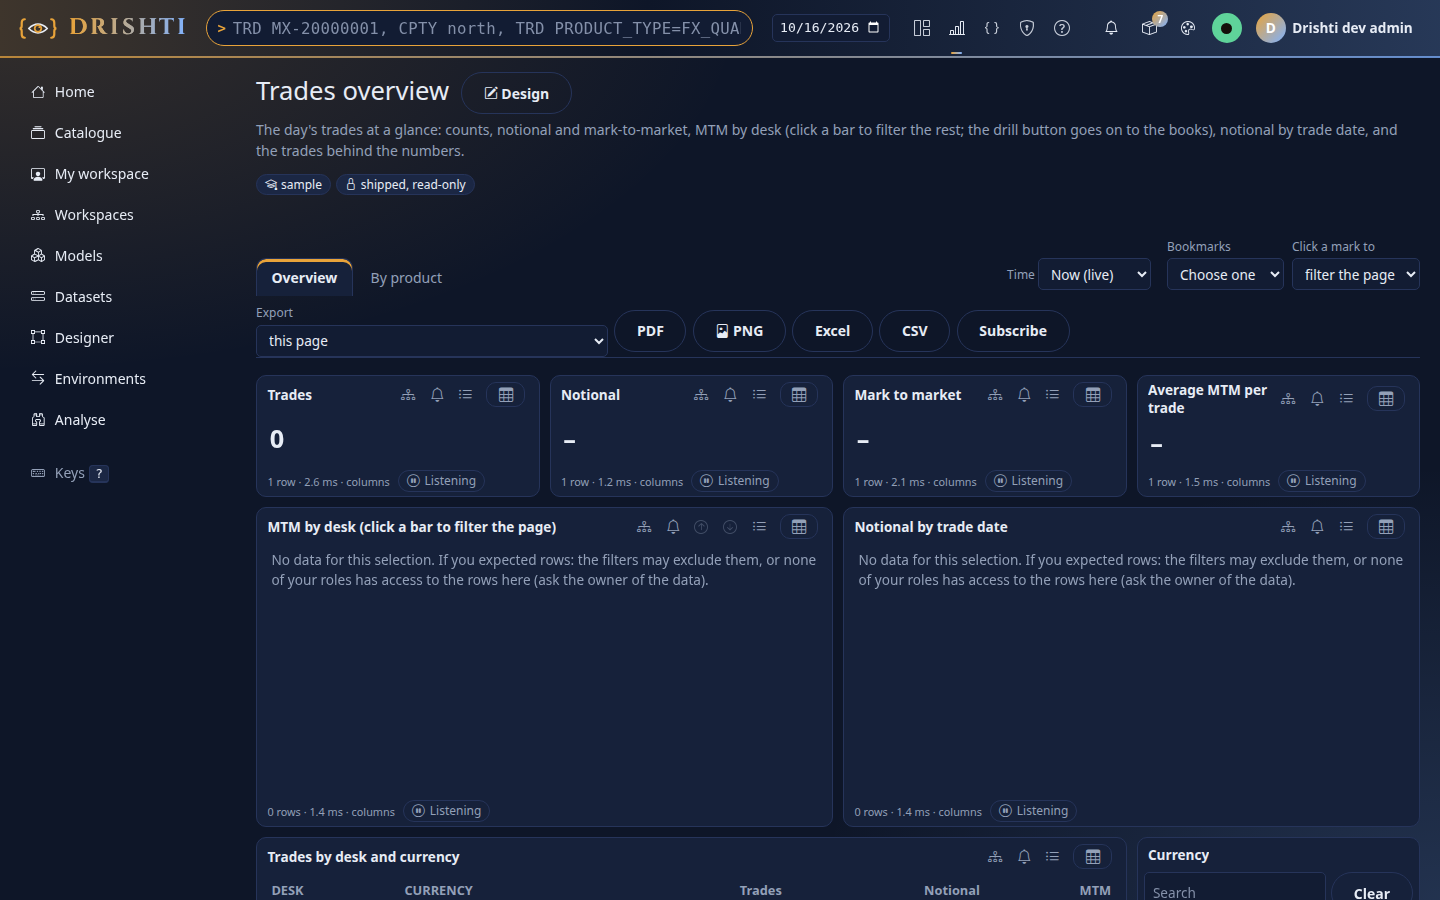
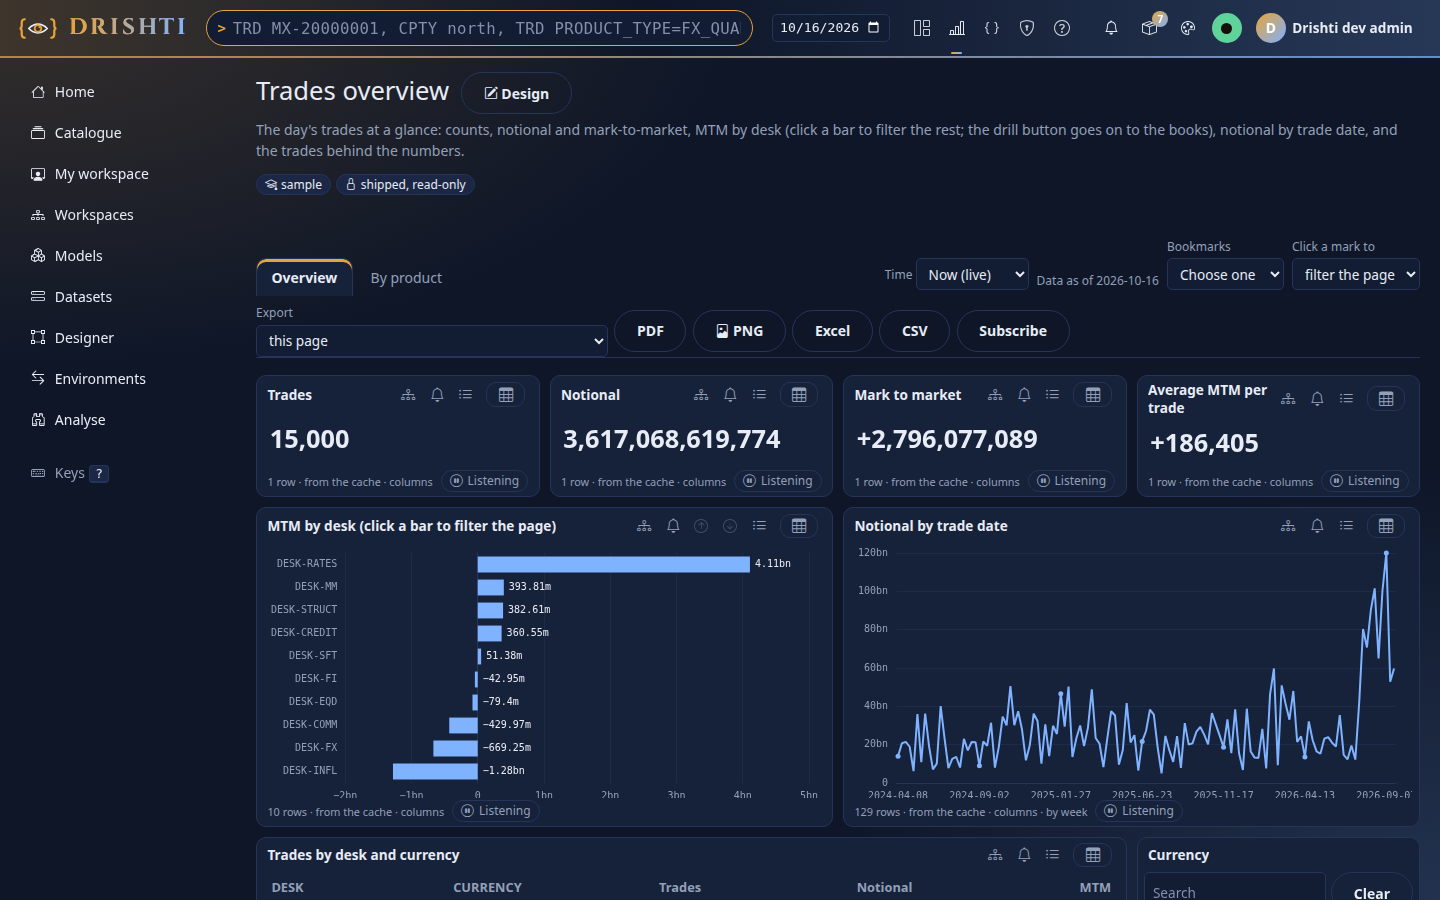
Windows QA guide: delete config\connectors left by an earlier run (old pack connector files: BI showed 0 trades); the BI screenshot retaken on fresh connector files (15,000 trades); the snapshot store's name

diff --git a/docs/guides/QA_ON_WINDOWS_WITH_CUSTOM_DATA.md b/docs/guides/QA_ON_WINDOWS_WITH_CUSTOM_DATA.md
@@ -134,6 +134,10 @@ exists.
 The synthetic data has seven business days. Make them **end on the date of your newest ENDUR file**, so the date picker
 shows CALYPSO, MUREX and ENDUR together.
 
+0. **If this project folder was used before** (an earlier Drishti ran from it): in Windows Explorer delete the folder
+   `C:\Users\asinh09\IdeaProjects\drishti-orig\config\connectors`. It holds connector files the server wrote from an
+   older version of the packs (for example, a `risk-store` that does not serve trade valuations, so BI shows 0 trades).
+   The server writes fresh ones from the packs at its next start. The folder is not in git; nothing of yours is lost.
 1. PyCharm, top-right drop-down → **Build demo lakes** → **Edit Configurations…**. The configuration runs the script
    `tools\drishti.py`; in its *Parameters* box change `lake demo` to `lake demo --as-of 2026-10-16` (your newest ENDUR
    date) → **OK**.
@@ -263,8 +267,8 @@ The console reconnects by itself if you start or restart the server after it.
 
    ![Admin, Lakes: every table with rows, files, size, dates and the Maintain controls](img/qa-windows/01-admin-lakes.png)
 2. **Admin ▾ → Connectors.** You should see `trade-endur`, `trade-calypso`, `trade-murex` and the stores **RUNNING**.
-   The live **yfinance** and **news** connectors are shown as **disabled**; the stores `news-store` and `market-store`
-   are **RUNNING** and serve the snapshot.
+   The live **yfinance** and **news** connectors are shown as **disabled**; `news-store` is **RUNNING** and serves the
+   snapshot's quotes and headlines.
 
    ![Admin, Connectors: the trade connectors of the three systems RUNNING](img/qa-windows/02-admin-connectors.png)
 3. **Admin ▾ → Health.** You should see everything green (a warning about a field mask of an example pack that is not
@@ -291,7 +295,7 @@ The console reconnects by itself if you start or restart the server after it.
 | 6 | An **equity price** | `/v/listed-company/CO-AAPL` (quote and chart from the snapshot) |
 | 7 | **News** | the news panel of the company page, or `/v/news-topic/TOPIC-FED` |
 | 8 | **Compare** across two dates | on a trade page, set the date picker to one of your dates → **Compare** → the other date |
-| 9 | **BI** by source system | Top bar, the bar-chart icon (**BI**) → **Catalogue** → **Trades overview** → **Open the report**; change a slicer. **Known issue (2026-10-18): on the demo lakes this report shows 0 trades; skip this row until the fix is pushed.** |
+| 9 | **BI** by source system | Top bar, the bar-chart icon (**BI**) → **Catalogue** → **Trades overview** → **Open the report**; change a slicer. |
 | 10 | How a screen is designed | on a deal page, *How this view was built* → click the Sutra name: the designer opens with the trade as its sample |
 
 ### The pages, as they look
@@ -317,6 +321,7 @@ trades.
 | PyCharm says the interpreter is invalid | Redo step 2.2 point 2. |
 | The Run tab says **DrishtiApplication**, quotes or news try the internet, or sample trades appear | The server was started from the ▶ in `DrishtiApplication.java`: stop it and start **Drishti server (demo lakes)** (section 4.1). |
 | The server log scrolls with thousands of `FilterCompat` or `delta.kernel` INFO lines | An older copy of the project: `git pull` (since 2026-10-18 these libraries log at WARN; Drishti says one line per large table loaded). |
+| **BI → Trades overview** shows 0 trades, or a page of the demo shows nothing while Admin → Lakes has the table | Old connector files: stop the server, delete `config\connectors` (step 3.1 point 0), start the server again. |
 | `Port 18480 (or 17480) is already in use` | Another copy is running: stop it in IntelliJ / PyCharm (red square), or reboot. |
 | `lake build` says `no id (field 'id' is missing…)` | The parameters lack `--key TRADE_ID`: copy the line of step 3.2 again. |
 | `lake build` says `give --lake DIR (the Delta root the connector reads)` | The parameters lack `--lake data\delta`: copy the line of step 3.2 again (it ends with `--lake data\delta`), and run it from the project folder. |
